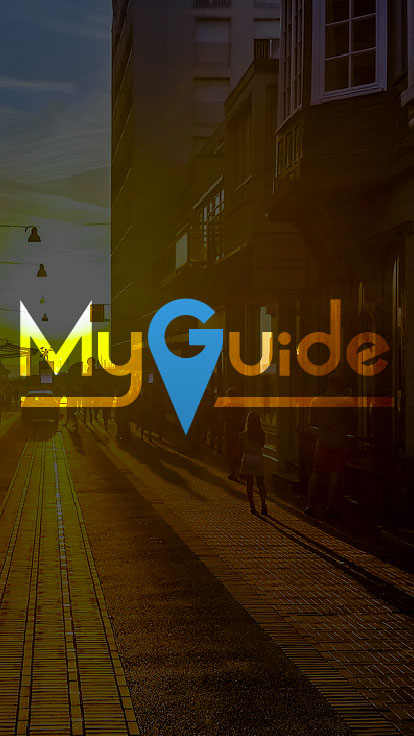
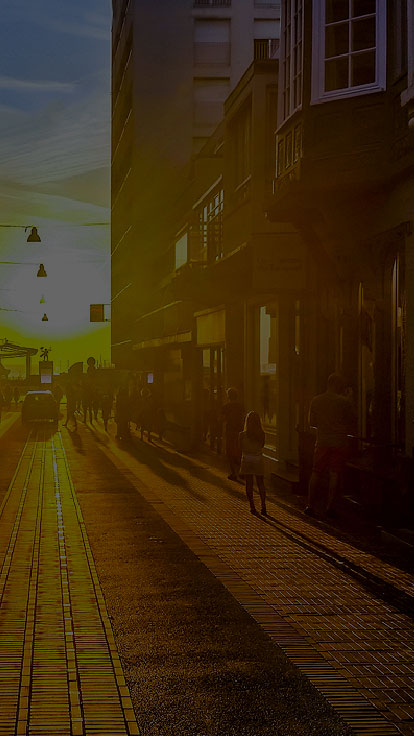
added login page + style for login

diff --git a/css/style.css b/css/style.css
@@ -9,11 +9,12 @@ body, html
 .container
 {
     background-image: url("../images/bg.jpg");
-    background-position: center;
+    background-position: center top;
     background-size: cover;
     background-repeat: no-repeat;
     min-height: 100%;
     width: 100%;
+    text-align: center;
 }
 
 #header_splash
@@ -22,6 +23,135 @@ body, html
     font-weight: 100;
     color: #F2F2F2;
     text-align: center;
-    font-size: 5em;
-    padding-top: 200px;
+    font-size: 3em;
+    padding-top: 15%;
+}
+
+#logo_splash
+{
+    width: 80%;
+    max-width: 400px;
+    display: block;
+    margin-left: auto;
+    margin-right: auto;
+    margin-top: 50px;
+}
+
+#slogan_splash
+{
+    color: white;
+    font-family: 'Helvetica Neue';
+    font-weight: 200;
+    margin-top: 10px;
+    margin-bottom: 70px;
+}
+
+.button
+{
+    text-decoration: none;
+    border: 1px solid white;
+    display: block;
+    width: 200px;
+    margin-left: auto;
+    margin-right: auto;
+    height: 30px;
+    padding-top: 10px;
+    border-radius: 5px;
+    font-family: "Helvetica Neue";
+    text-transform: uppercase;
+    font-weight: 200;
+}
+
+.full_blue
+{
+    background-color: #2980B9;
+    color: #F2F2F2;
+    border: 2px solid #2980B9;
+}
+
+.ghost_blue
+{
+    border: 2px solid #2980B9;
+    color: #F2F2F2;
+}
+
+header
+{
+    background-color: rgba(242, 242, 242, .85);
+    padding-bottom: 15px;
+}
+
+header img
+{
+    width: 30%;
+    padding-top: 15px;
+}
+
+.form
+{
+    margin-top: 75px;
+}
+
+.form input
+{
+    border: none;
+    background-color: rgba(242, 242, 242, .8);
+    display: block;
+    margin-left: auto;
+    margin-right: auto;
+    width: 70%;
+    max-width: 500px;
+    height: auto;
+    border-radius: 5px;
+    font-size: 1.5em;
+    padding: 15px 5px
+}
+
+::-webkit-input-placeholder
+{
+    color: rgba(128, 128, 128, 0.5);
+    font-style: italic;
+    font-size: 0.9em
+}
+
+:-moz-placeholder
+{
+    color: rgba(128, 128, 128, 0.5);
+    font-style: italic;
+    font-size: 0.9em
+}
+
+::-moz-placeholder
+{
+    color: rgba(128, 128, 128, 0.5);
+    font-style: italic;
+    font-size: 0.9em
+}
+
+:-ms-input-placeholder
+{  
+    color: rgba(128, 128, 128, 0.5);
+    font-style: italic;
+    font-size: 0.9em
+}
+
+#login_screen_button
+{
+    margin-top: 40px;
+    text-decoration: none;
+    border: 1px solid white;
+    display: block;
+    width: 200px;
+    margin-left: auto;
+    margin-right: auto;
+    height: auto;
+    padding-top: 10px;
+    border-radius: 1px;
+    font-size: 1em;
+    font-family: "Helvetica Neue";
+    text-transform: uppercase;
+    font-weight: 100;
+    background-color: #2980B9;
+    color: #F2F2F2;
+    border: 2px solid #2980B9;
 }

diff --git a/login.php b/login.php
@@ -14,13 +14,22 @@
 
     <div class="container">
         
-        <h1 id="header_splash">WELCOME TO</h1>
+        <header>
+            <img src="images/logo_full.png" alt="logo">
+        </header>
         
-        <img id="logo_splash" src="images/logo.png" alt="Logo">
-        <p id="slogan_splash">Your guide booking app</p>
-        
-        <a class="button full_blue" href="register.php">Register</a><br>
-        <a class="button ghost_blue" href="login.php">Log in</a>
+        <section class="form">
+            
+            <form action="" method="post">
+            
+                <input type="text" id="email" name="email" placeholder="Email address"><br>
+                <input type="password" id="pass" name="pass" placeholder="Password">
+
+                <input type="submit" id="login_screen_button" value="Log in!">
+            
+            </form>            
+            
+        </section>
         
     </div>
 
